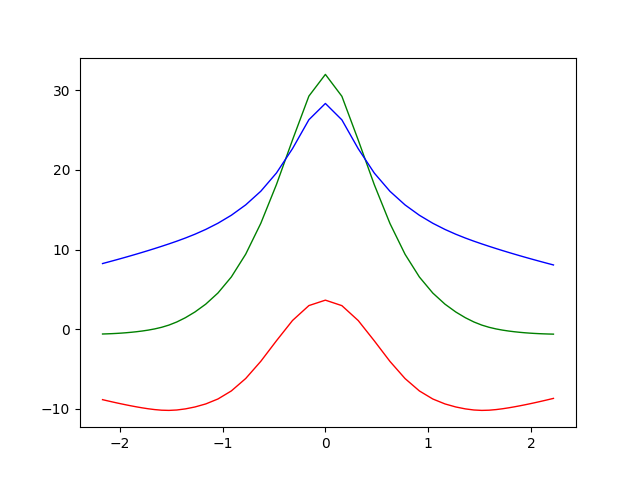
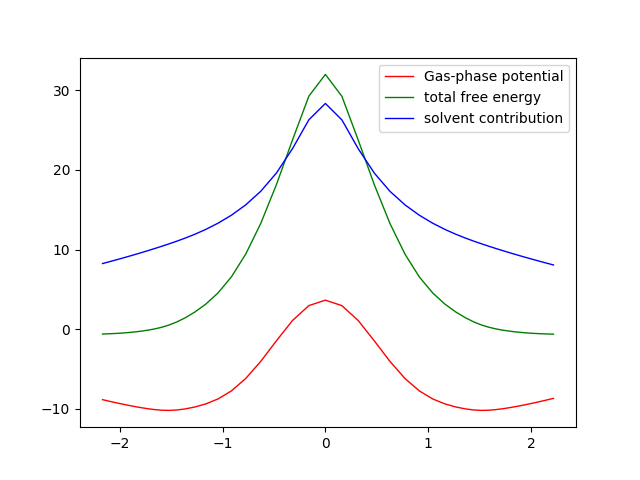
eachValue.pngに凡例を追加

Changed region(s): [[0.5938, 0.125, 0.875, 0.2812]]

diff --git a/makeStrings.py b/makeStrings.py
@@ -55,10 +55,11 @@ class interpData:
                 self.valueArray.append(value)
         # print(str(self.fileNameOfValue) + "  " + str(len(self.valueArray)))
 
-    def plotValueAlongRC(self,colorName):
+    def plotValueAlongRC(self,colorName, line_style="-",label=None):
         for i in range(len(self.abArray)):
             self.RCArray.append(self.abArray[i] - self.bcArray[i])
-        plt.plot(self.RCArray,self.valueArray, linewidth = 1, color = colorName)
+        plt.plot(self.RCArray,self.valueArray, linewidth = 1, color = colorName, linestyle=line_style,label=label)
+        plt.legend()
 
 class AirData(interpData):
     def get_potential(self):
@@ -87,15 +88,15 @@ if __name__ == "__main__":
     # air = interpData("interpAir.dat","alongStringAir.dat")
     air = AirData("interpNewData.dat", "alongStringWater.dat")
     air.get_potential()
-    air.plotValueAlongRC("red")
+    air.plotValueAlongRC("red",label="Gas-phase potential")
 
     water = interpData("interpNewData.dat","alongStringWater.dat")
     water.readValue()
-    water.plotValueAlongRC("green")
+    water.plotValueAlongRC("green",label="total free energy")
 
     sfe = OnlySolventFreeEnergy("interpNewData.dat", "alongStringWater.dat")
     sfe.readValue()
-    sfe.plotValueAlongRC("blue")
+    sfe.plotValueAlongRC("blue", label="solvent contribution")
     # sfe.plotValueAlongRC("blue")
     # air.readValue()
     # air.plotValueAlongRC("red")
